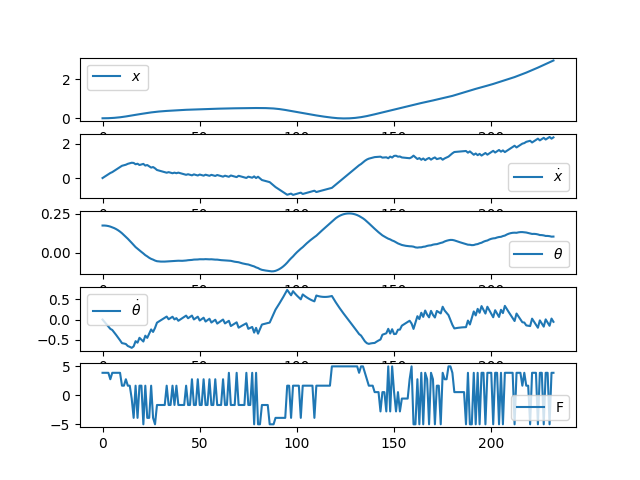
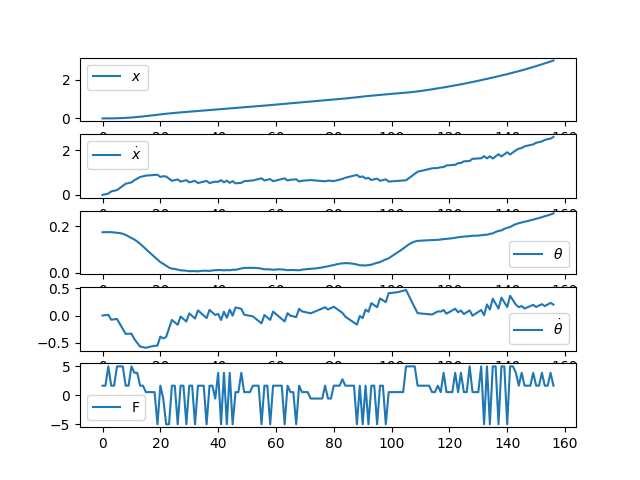
td3 noise clipping added

diff --git a/utils/td3_training.py b/utils/td3_training.py
@@ -41,7 +41,10 @@ class Training:
         output = self.actor_old.predict(next_state)
         distribution    = torch.distributions.Normal(torch.zeros_like(output), 2)
         noise           = distribution.sample()
+        noise           = noise.clamp(-self.config['max_noise'], self.config['max_noise'])
+
         action_pred     = output + noise
+        action_pred     = action_pred.clamp(-self.config['max_action'], self.config['max_action'])
 
         input_  = torch.hstack((next_state,action_pred))
         values1 = self.Q_old1.predict(input_)
@@ -71,7 +74,8 @@ class Training:
         if train_actor == 0:
             for parameter in self.Q_new1.parameters():
                 parameter.requires_grad_(False)
-                self.actor_optimizer.zero_grad()
+            
+            self.actor_optimizer.zero_grad()
 
             action_i = self.actor_new(state)
             input_i  = torch.hstack((state,action_i))
@@ -83,7 +87,6 @@ class Training:
             # To make sure, Q_new is available for updates in the next batch
             for parameter in self.Q_new1.parameters():
                 parameter.requires_grad_(True)
-                self.actor_optimizer.zero_grad()
 
             # Soft update
             ## Action Value Update
@@ -95,7 +98,7 @@ class Training:
             with torch.no_grad():
                 for new_param, old_param in zip(self.Q_new2.parameters(),self.Q_old2.parameters()):
                     old_param.mul_(1.0 - self.config['tau'])
-                old_param.add_(self.config['tau'] * new_param)
+                    old_param.add_(self.config['tau'] * new_param)
 
             ## Policy Update
             with torch.no_grad():

diff --git a/envs/cart_pole.py b/envs/cart_pole.py
@@ -139,8 +139,8 @@ class CartPole(Environment):
                 action_env = torch.tensor(policy.actions[action.item()])
             else:
                 output = policy.predict(state).detach()
-                squashed_action = torch.tanh(output[0])       
-                action_env = policy.max_action * squashed_action 
+                #squashed_action = torch.tanh(output[0])       
+                action_env = policy.max_action * output[0] 
             next_state, reward, terminate = self.step(state, action_env, step)
             states_for_plotting.append(state.detach().numpy())
             actions_for_plotting.append(action_env)

diff --git a/experiments/td3.py b/experiments/td3.py
@@ -28,6 +28,8 @@ config = {
     'gamma': 0.99, # Discount factor
     'tau':   0.005, # Soft update constant
     'batch_size': 128,
+    'max_noise' : 0.2,  # For clipping the noise during training
+    'max_action' : max_action, # For clipping actions after adding noise
 }
 
 env   = CartPole(method=method)
